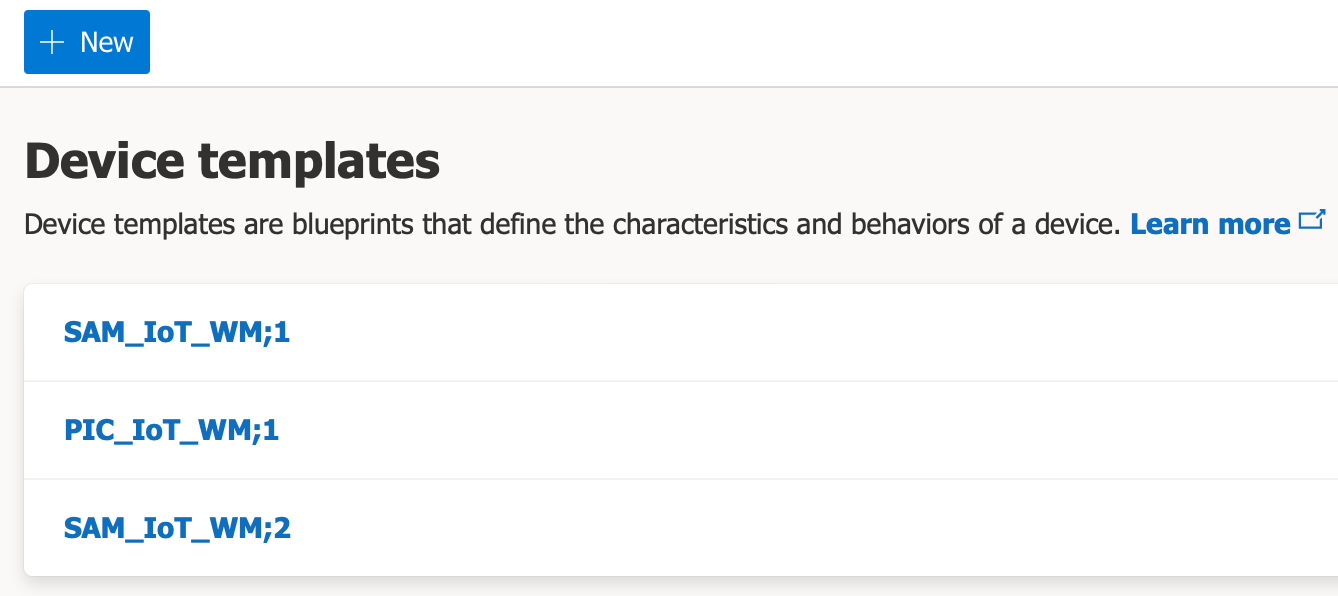
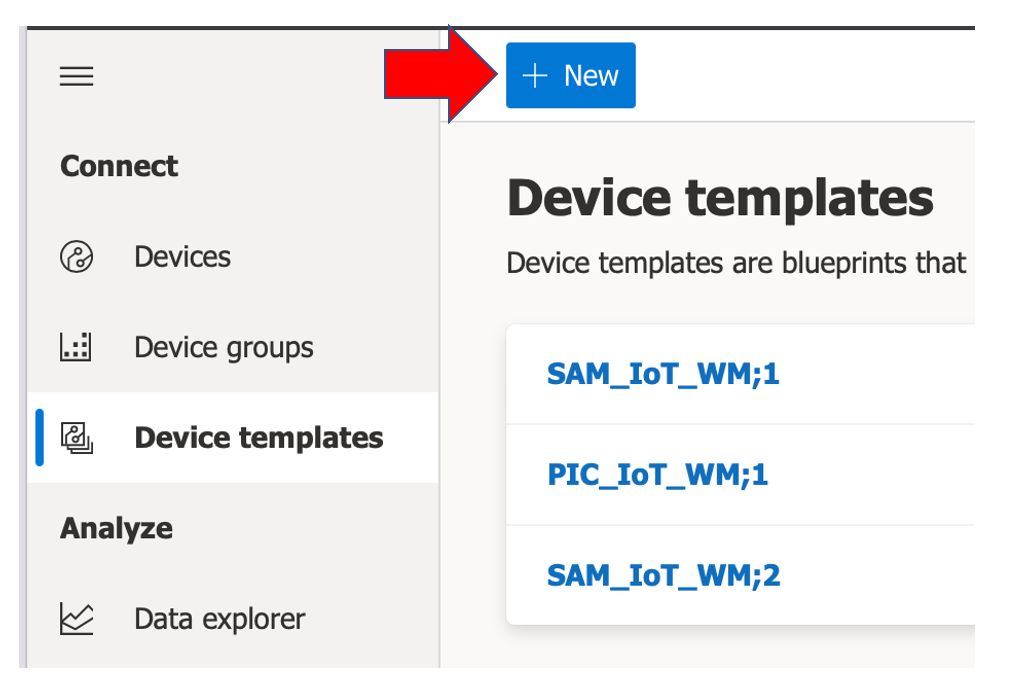
Update IOTC guidance

diff --git a/WFI32_IoT_Central.md b/WFI32_IoT_Central.md
@@ -69,9 +69,9 @@ As a solution builder, you can use IoT Central to develop a cloud-hosted IoT sol
 
     The '2' used in the existing default command corresponds to a network which uses the Wi-Fi Protected Access 2 (WPA2) security standard. If your network is configured for a different Wi-Fi security standard, edit the command based on one of the following:
 
-    - Open (Unsecured):
+    - Open Unsecured Network (no password protection):
         ```bash
-        CMD:SEND_UART=wifi my_SSID,NO_KEY,1
+        CMD:SEND_UART=wifi my_SSID,,1
         ```
     - Wired Equivalent Privacy (WEP):
         ```bash
@@ -82,13 +82,25 @@ As a solution builder, you can use IoT Central to develop a cloud-hosted IoT sol
         CMD:SEND_UART=wifi my_SSID,my_PSWD,4
         ```
 
-    As an alternative, you can go to the [Microchip IoT Wi-Fi configuration page](http://microchip.iot.com) to generate the correct contents of the `WIFI.CFG` file based on your credentials.
+    As an alternative, you can go to the [PIC32MZ "W1" Wi-Fi MCU IoT Board](https://iot.microchip.com/pic32mzw1) configuration page to generate the correct contents of the `WIFI.CFG` file based on your Wi-Fi network credentials by following the steps shown
 
-11. Enter in the `reset` command on the CLI. Within a few seconds, you should see the Blue LED on the WFI32-IoT Board stay constantly on - signifying that the board has successfuly connected to Wi-Fi
+    <img src=".//media/image45a.png" style="width:5.in;height:1.58982in" alt="A screenshot of a cell phone Description automatically generated" />
+
+11. Enter in the `reset` command on the serial terminal CLI. Within a few seconds, you should see the Blue LED on the WFI32-IoT Board stay constantly on - signifying that the board has successfuly connected to your Wi-Fi network
 
     NOTE: Do not proceed until the WFI32-IoT Board has established a successful connection to Wi-Fi - the Blue LED needs to be always on!
 
-## C. Create an IoT Central Application for your Device
+## C. Access the Root, Signer, and Device Certificates
+
+The `WFI32-IOT` Mass Storage Device (MSD) contains the 3 certificates saved in Privacy Enhanced Format (PEM) which is a Base64 encoded binary format. PEM certificates are frequently used for web servers as they can easily be translated into readable data using a simple text editor. Generally when a PEM encoded file is opened in a text editor, it contains very distinct headers and footers.
+
+Whenever the demo application is reset, it will check for the presence of all 3 files on the `WFI32-IOT` drive. Each file has the *.PEM suffix and is named to distinguish between the root, signer, and device certificates; e.g.
+
+<img src=".//media/image46.png">
+
+If any of the files do not exist when the demo application is reset, the missing file(s) will be automatically generated. In case any of these files are accidentally edited, simply delete the certificate(s) from the `WFI32-IOT` drive and reset the application so that they will be automatically regenerated.
+
+## D. Create an IoT Central Application for your Device
 
 IoT Central allows you to create an application dashboard to monitor the telemetry and take appropriate actions based on customized rules.
 
@@ -118,13 +130,15 @@ IoT Central allows you to create an application dashboard to monitor the telemet
 
     <img src=".//media/image108.png" style="width:5.in;height:1.98982in" alt="A screenshot of a cell phone Description automatically generated" />
 
-## D. Create the Device Template for the IoT Central Application
+## E. Create the Device Template for the IoT Central Application
 
 1.	Create the device template that your IoT Central application will use for the WFI32-IoT Board. This template defines the capabilities (telemetry, properties, commands) of the device model. You could manually create and add the device template to your IoT Central application, but why not import the device model from a JSON file that has already been created for the WFI32-IoT Board? Using the navigation pane on the left-hand side of the application, select `Connect` &gt; `Device templates`
 
+    <img src=".//media/image69.png" style="width:5.0in;height:3.00833in" alt="A screenshot of a cell phone Description automatically generated" />
+
 2.	If there is no existing device template that corresponds to "WFI32_IoT_WM", click on the `+ New` button at the top of the page
 
-    <img src=".//media/image70.png" style="width:5.0in;height:2.00833in" alt="A screenshot of a cell phone Description automatically generated" />
+    <img src=".//media/image70.png" style="width:5.0in;height:3.00833in" alt="A screenshot of a cell phone Description automatically generated" />
 
 3.	Click on the `IoT device` tile to import an existing capability model, then scroll down to the bottom of the page and select `Next: Customize`
 
@@ -176,7 +190,7 @@ IoT Central allows you to create an application dashboard to monitor the telemet
 
 15.	Click on the `Publish` icon at the top of the page.  A pop-up window should appear to confirm the latest changes to be made to the template - then click on the `Publish` button
 
-## E. Connect your Device to the IoT Central Application
+## F. Connect your Device to the IoT Central Application
 
 1.	Look up the `ID Scope` for your IoT Central application (using the left-hand navigation pane, select `Permissions` &gt; `Device connection groups`)
 
@@ -260,7 +274,7 @@ IoT Central allows you to create an application dashboard to monitor the telemet
 
     <img src=".//media/image94.png" style="width:5.0in;height:4.18982in" alt="A screenshot of a cell phone Description automatically generated" />
 
-## F. Connect your Device to the Dashboard for Data Visualization
+## G. Connect your Device to the Dashboard for Data Visualization
 
 1. Navigate to the left-hand vertical toolbar and click on the `Dashboards` icon
 
@@ -305,23 +319,30 @@ IoT Central allows you to create an application dashboard to monitor the telemet
 
     <img src=".//media/image108.png" style="width:5.in;height:1.98982in" alt="A screenshot of a cell phone Description automatically generated" />
 
-## G. WFI32-IoT Differential Pressure Sensors
+## H. WFI32-IoT Differential Pressure Sensors
 
 If you have one or both of the optional MikroElektronika "Ultra-Low Press" and/or "VAV Press" Click boards installed on the WFI32-IoT Board's mikroBUS™ socket, feel free to create a similar IoT Central application using an existing ["WFI32-IoT Differential Pressure Sensors" application template](https://apps.azureiotcentral.com/build/new/926fba4f-fc71-40c7-a129-f608458995c1) that contains a single dashboard specifically for visualizing the differential pressure and temperature sensor telemetry from the Click board(s). Once a new IoT Central application has been created, execute the following steps:
 
-1. Repeat the procedure outlined in Section E ("Connect your Device to the IoT Central Application") to confirm that your device has been properly registered/added to the new application
+1. Repeat the procedure outlined in the previous section titled "Connect your Device to the IoT Central Application" to confirm that your device has been properly registered/added to the new application
 
 2. Using the left-hand navigation pane, select `Analyze` &gt; `Dashboards`
 
 3. Click on the `Edit` icon
 
-4. For each of the tiles used to display device data (and does not currently show any data), configure each tile by adding your device to the tile (click `Edit` icon &gt; select `WFI32_IoT_WM` for `Device group` &gt; click `Select All` for `Devices` &gt; click `Update` button)
+4. For each of the tiles used to display device data (and does not currently show any data), configure each tile by adding your device to the tile by executing the following steps:
+
+    - click `Edit` icon
+    - select `WFI32_IoT_WM` for `Device group`
+    - click `Select All` for `Devices`
+    - click the `Update` button
+
+    NOTE: Whenever a device group has been reselected, the tile may inadvertently drop the telemetry parameters that were selected previously - so you may have to add those telemetry parameters back into the tile before clicking on the `Update` button
 
 5. Click on the `Save` icon
 
-<img src=".//media/image109.png" style="width:6.0in;height:5.0in" alt="A screenshot of a cell phone Description automatically generated" />
+    <img src=".//media/image109.png" style="width:6.0in;height:5.0in" alt="A screenshot of a cell phone Description automatically generated" />
 
-## H. Expand the Dashboard with Additional Tiles
+## I. Expand the Dashboard with Additional Tiles
 
 To create additional tiles for your IoT Central dashboard, refer to [Configure the IoT Central application dashboard](https://docs.microsoft.com/en-us/azure/iot-central/core/howto-add-tiles-to-your-dashboard). The below screen captures show additional possibilities of dashboard components that can highlight the telemetry data and properties facilitated by the `Plug and Play` interface.  Note that multiple devices can be selected for each tile to allow groups of devices to be visualized within a single tile. 
 
